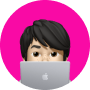
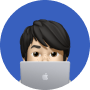
Fix color palette

diff --git a/css/style.css b/css/style.css
@@ -492,7 +492,7 @@ footer i:hover {
     transform: scale(1.1);
 }
 .footer__center__controls .fa-undo-alt {
-    color: #f90aa5;
+    color: #1eb853;
 }
 .footer__center__controls a:last-child {
     position: relative;
@@ -506,7 +506,7 @@ footer i:hover {
     height: 3px;
     border: 2px solid #191C21;
     border-radius: 50%;
-    background: #f90aa5;
+    background: #1eb853;
 }
 .progress__bar {
     display: inline-block;
@@ -582,7 +582,7 @@ footer i:hover {
     height: 5px;
     border: 2px solid #191C21;
     border-radius: 50%;
-    background: #f90aa5;
+    background: #3860be;
 }
 .connect__device {
     width: 200px;

diff --git a/index.html b/index.html
@@ -304,7 +304,7 @@
         <!-- Footer left -->
         <div class="footer__left">
             <div class="footer__left__track">
-                <img src="http://via.placeholder.com/45/f90aa5/f90aa5?Text=WebsiteBuilders.com" alt="placeholder">
+                <img src="http://via.placeholder.com/45/BDBEC0/BDBEC0?Text=WebsiteBuilders.com" alt="placeholder">
                 <div class="footer__left__track__info">
                     <h6>Track name</h6>
                     <p>Artist</p>
